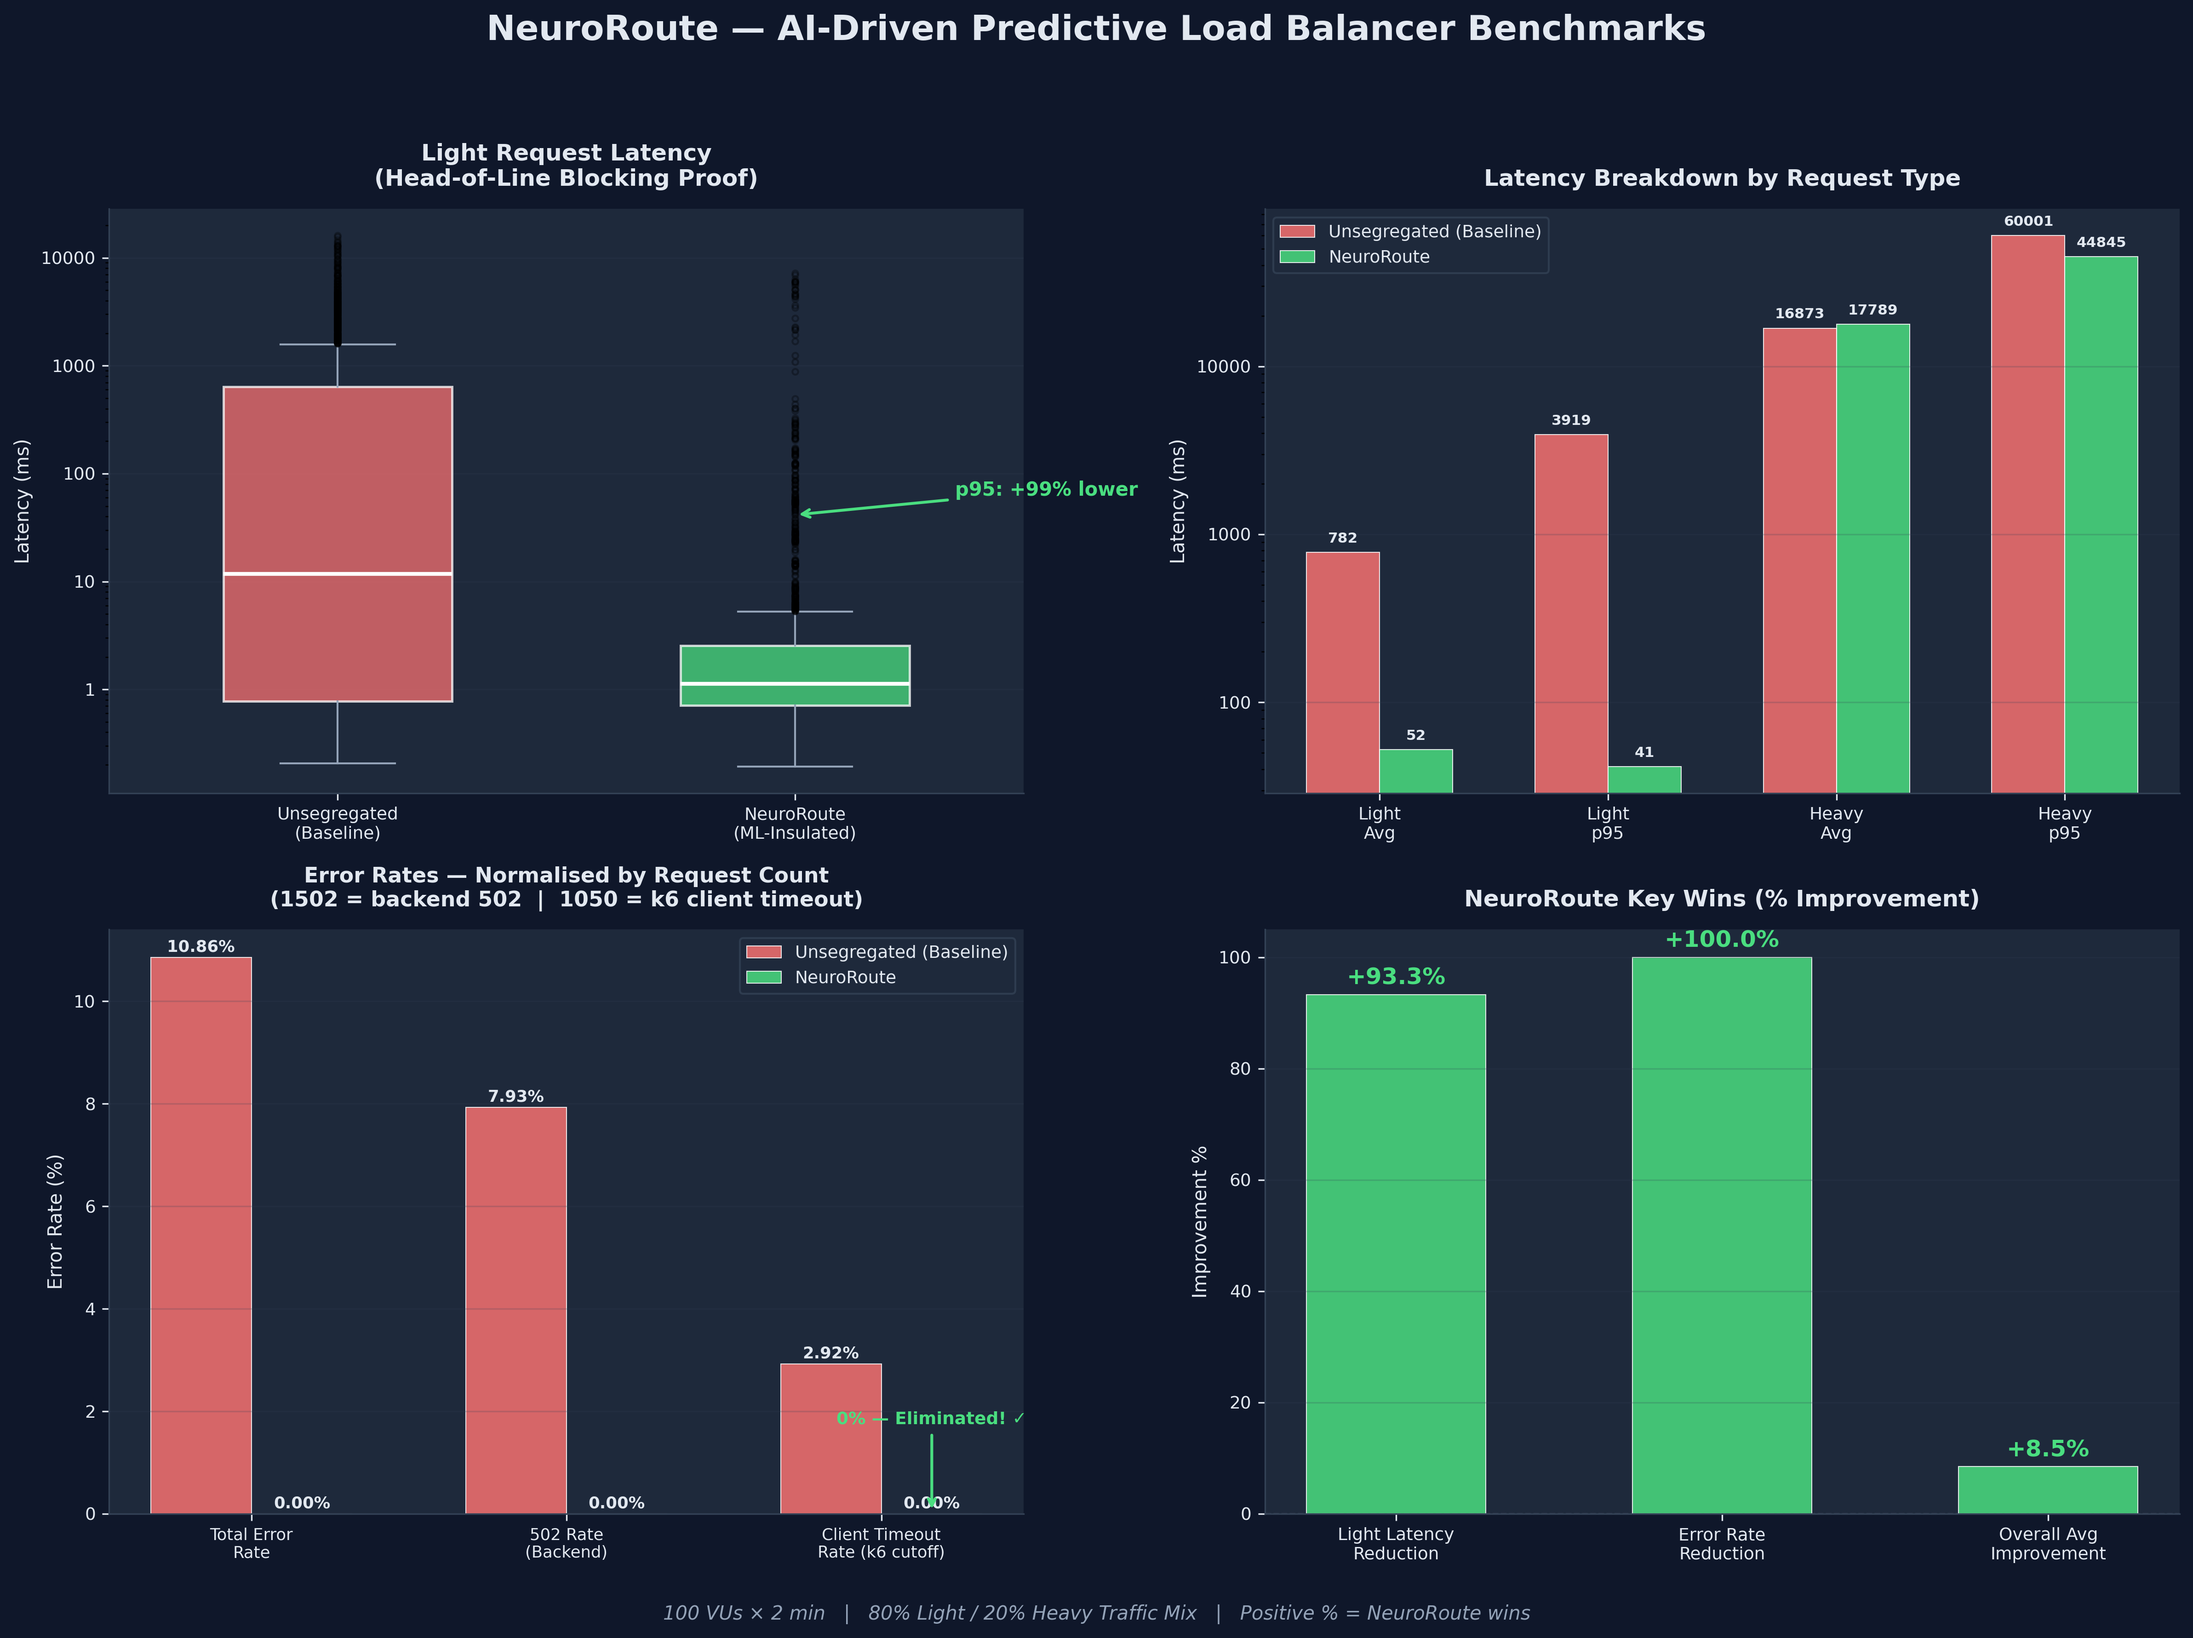
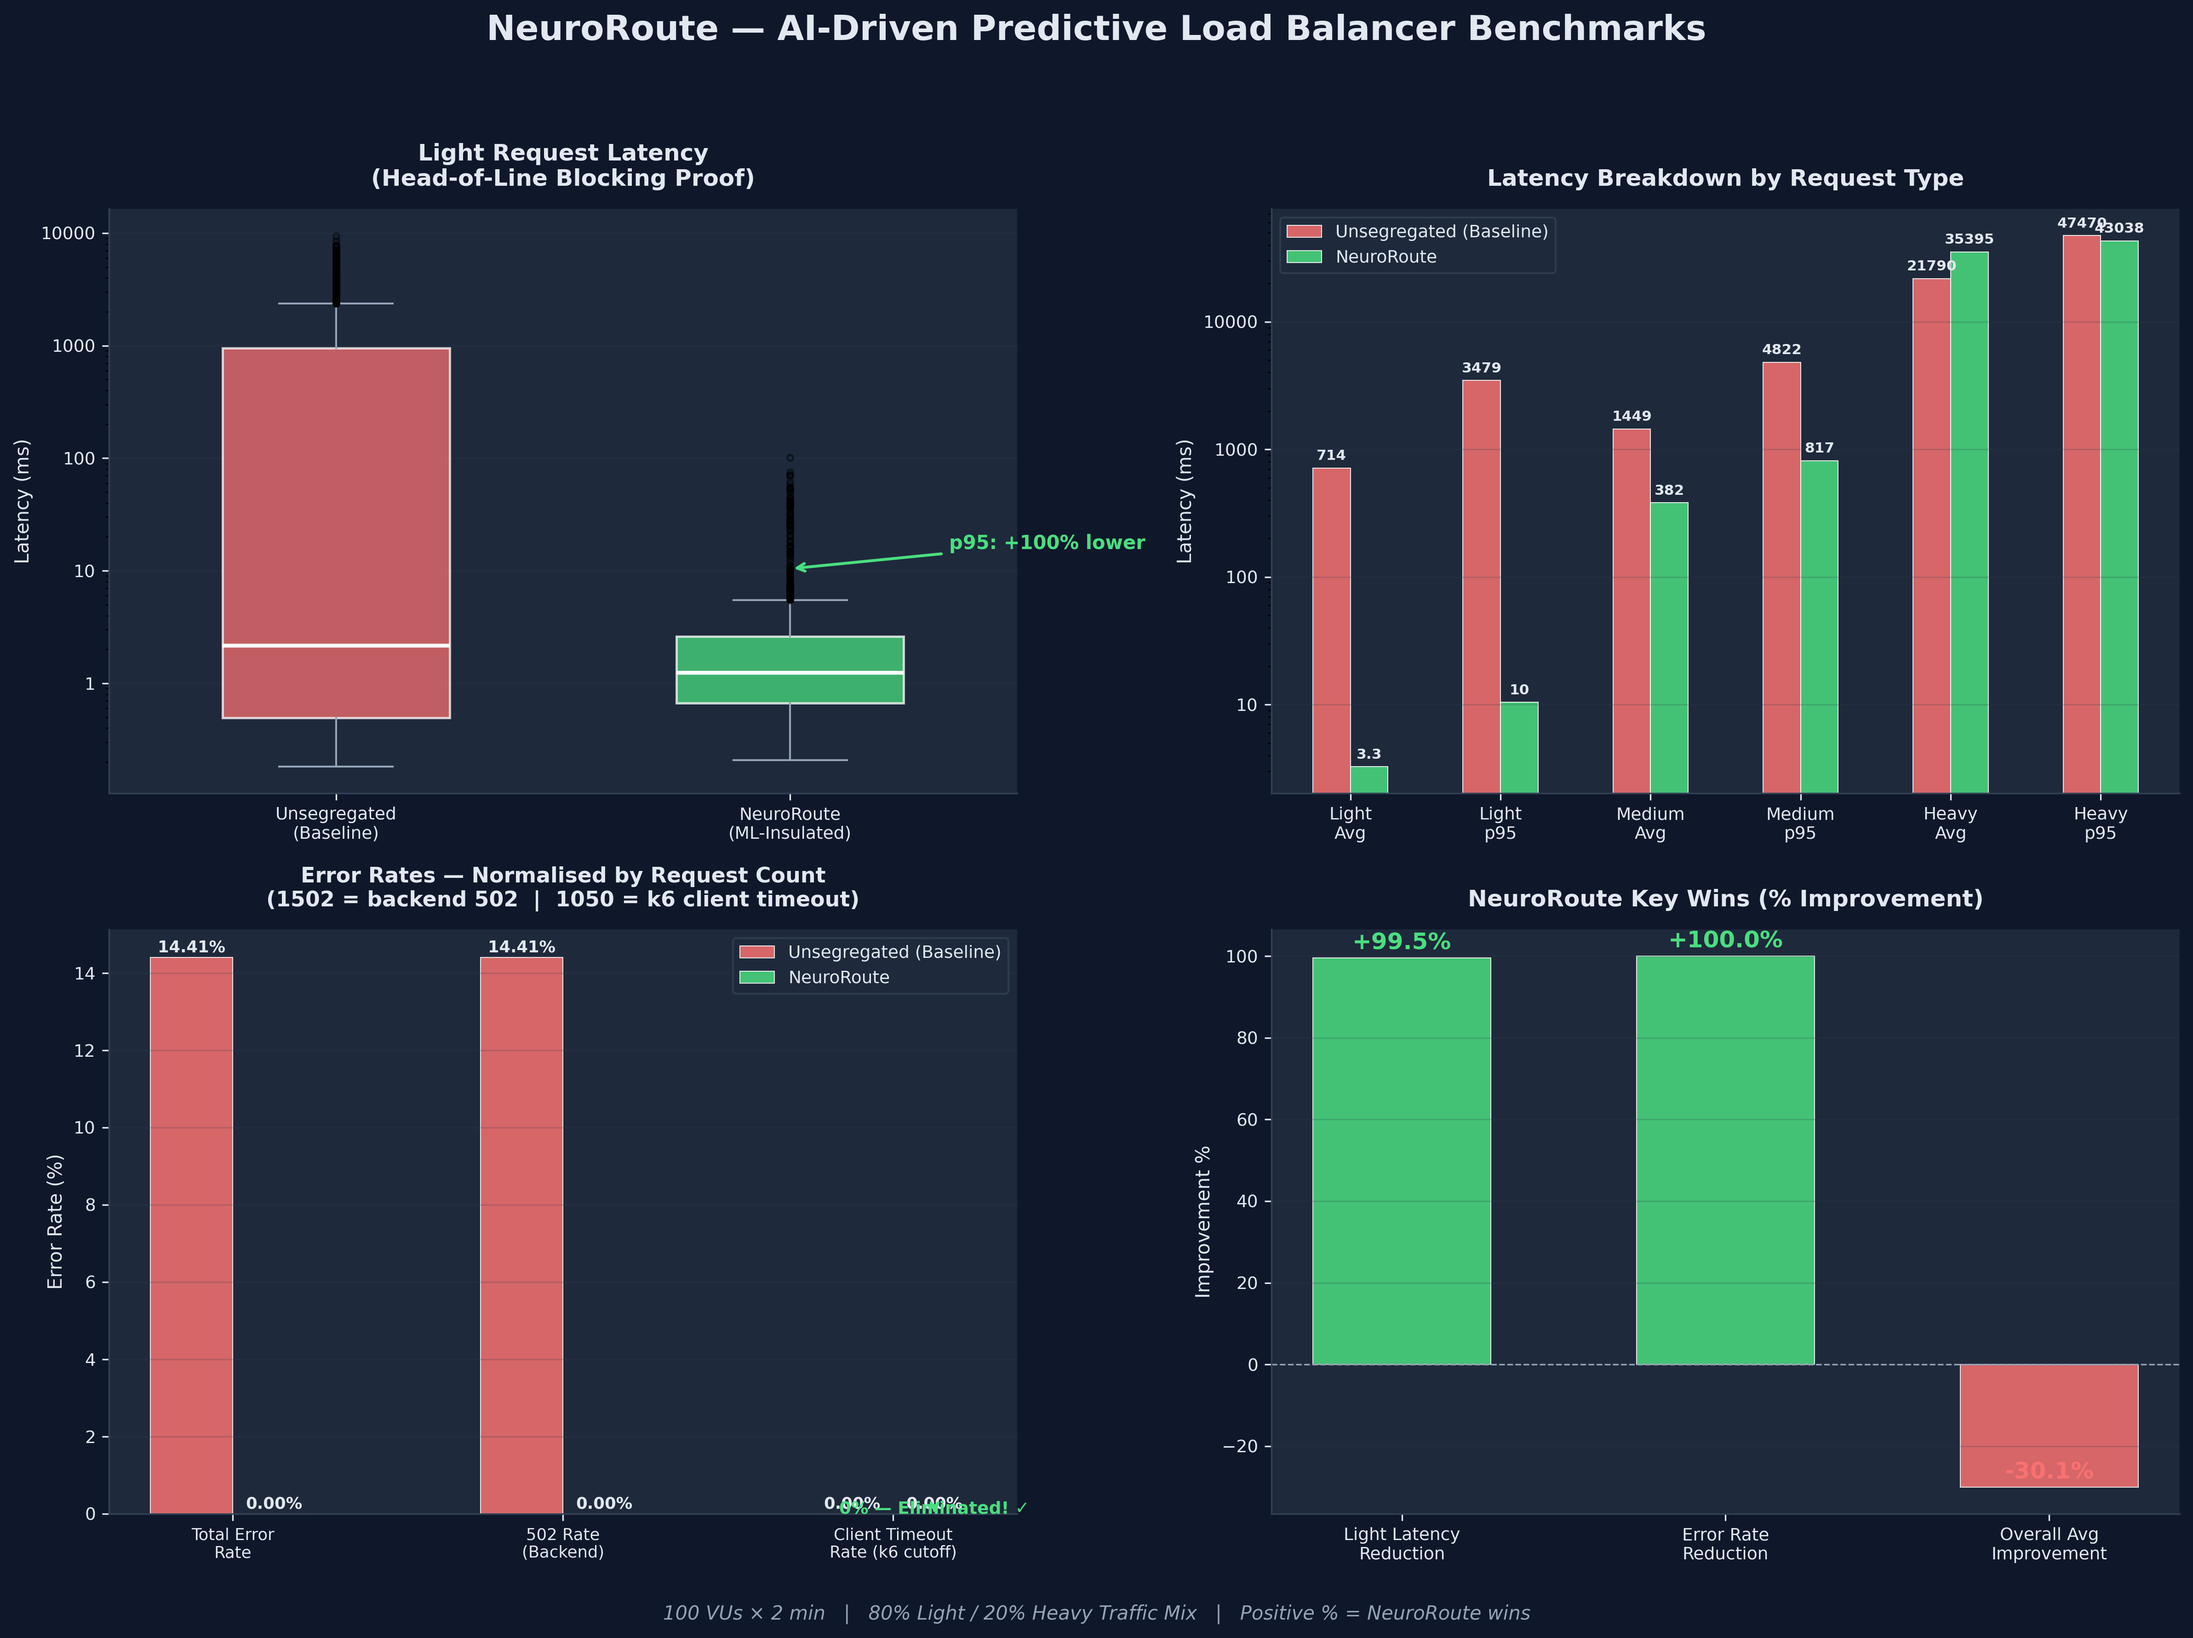
remove stale instances and imporve makefile

diff --git a/scripts/compare.py b/scripts/compare.py
@@ -2,8 +2,8 @@
 ──────────────────────────────────────────────────────────────
  NeuroRoute — Benchmark Comparison Script
 
- Parses raw k6 timeseries CSV files from both Round-Robin and
- Smart-Routing test runs, computes comprehensive metrics,
+ Parses raw k6 timeseries CSV files from both Unsegregated Baseline
+ and Smart-Routing test runs, computes comprehensive metrics,
  prints a beautifully formatted terminal summary, and exports
  a comparative visualization chart.
 

diff --git a/README.md b/README.md
@@ -128,7 +128,13 @@ make build
 make up
 ```
 
-### 2. Run the Smoke Test
+### 2. Set Up the ML Virtual Environment
+Initialize the Python virtual environment and install all machine learning dependencies:
+```bash
+make venv
+```
+
+### 3. Run the Smoke Test
 Verify that all pools are healthy and that the gateway correctly aggregates pool configurations:
 ```bash
 make smoke
@@ -155,7 +161,7 @@ To manually test the L7 reverse-proxy's real-time routing decisions, execute the
     ```
     *   **Expected Headers**: Look for `X-Worker-ID: 4` or `5`, with CPU-heavy execution times exceeding $200\text{ms}$.
 
-### 3. Run Baseline & retrain
+### 4. Run Baseline & retrain
 Run the baseline stress tests, harvest accurate executions telemetry, train the Random Forest model and compile it inline into the gateway:
 ```bash
 make test-rr
@@ -163,14 +169,14 @@ make harvest
 make train
 ```
 
-### 4. Deploy and Verify Smart Routing
+### 5. Deploy and Verify Smart Routing
 Redeploy the gateway with the inline compiled model and launch the predictive stress tests:
 ```bash
 make deploy-model
 make test-smart
 ```
 
-### 5. Compare Performance Graphs
+### 6. Compare Performance Graphs
 Generate statistical comparisons and performance charts:
 ```bash
 make compare
